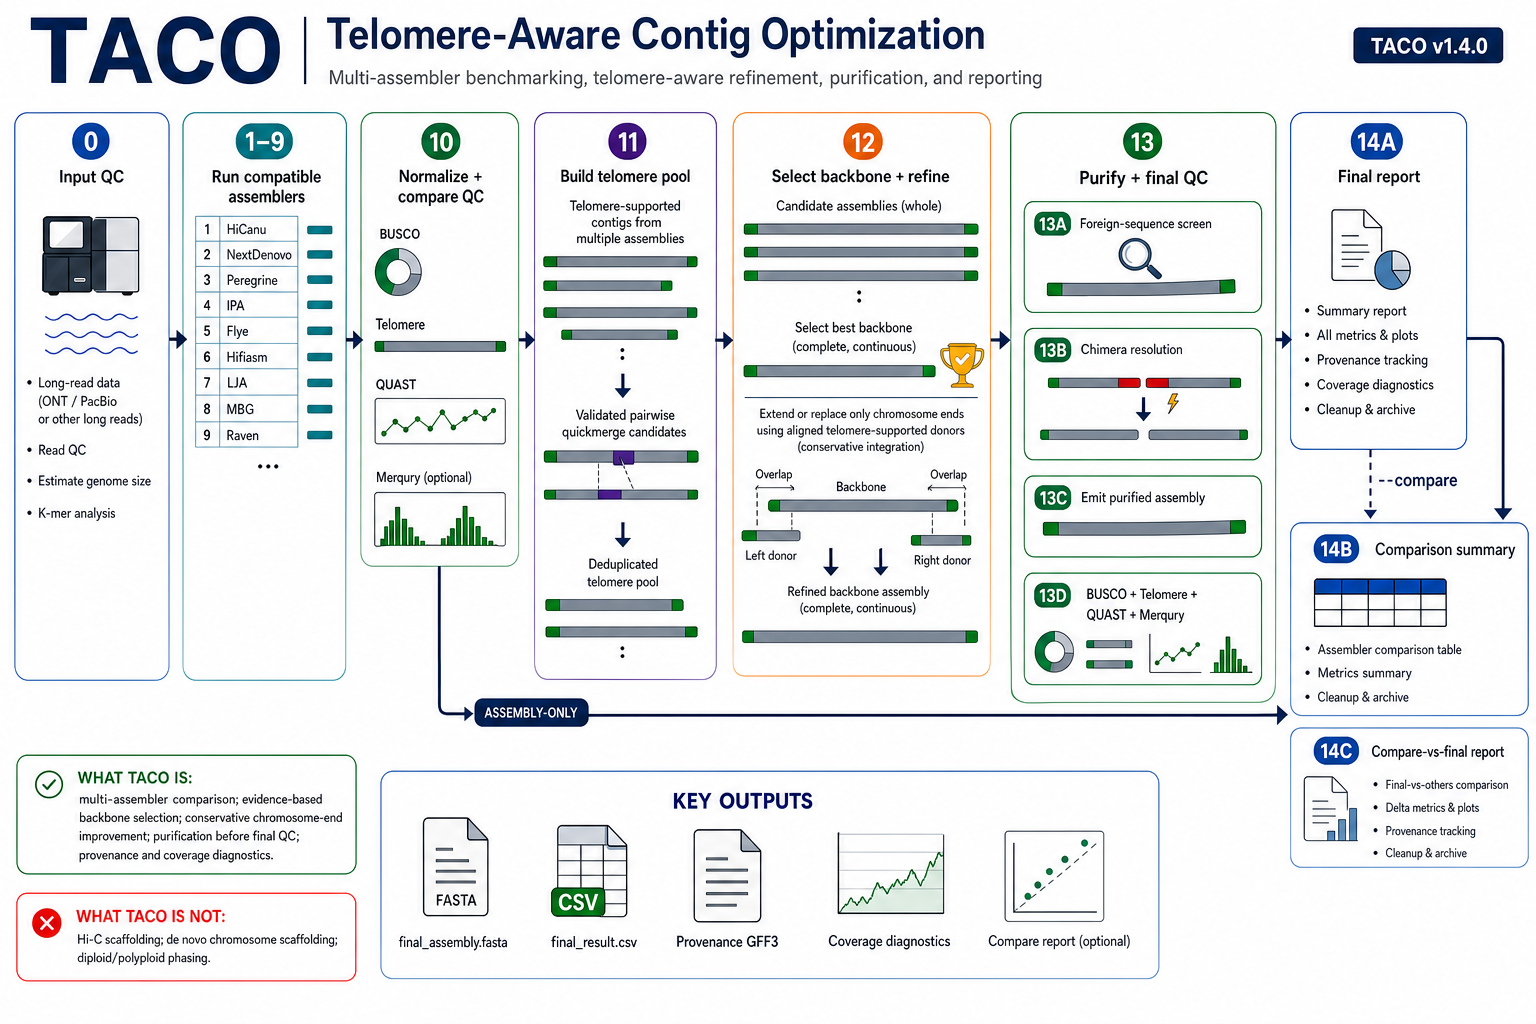
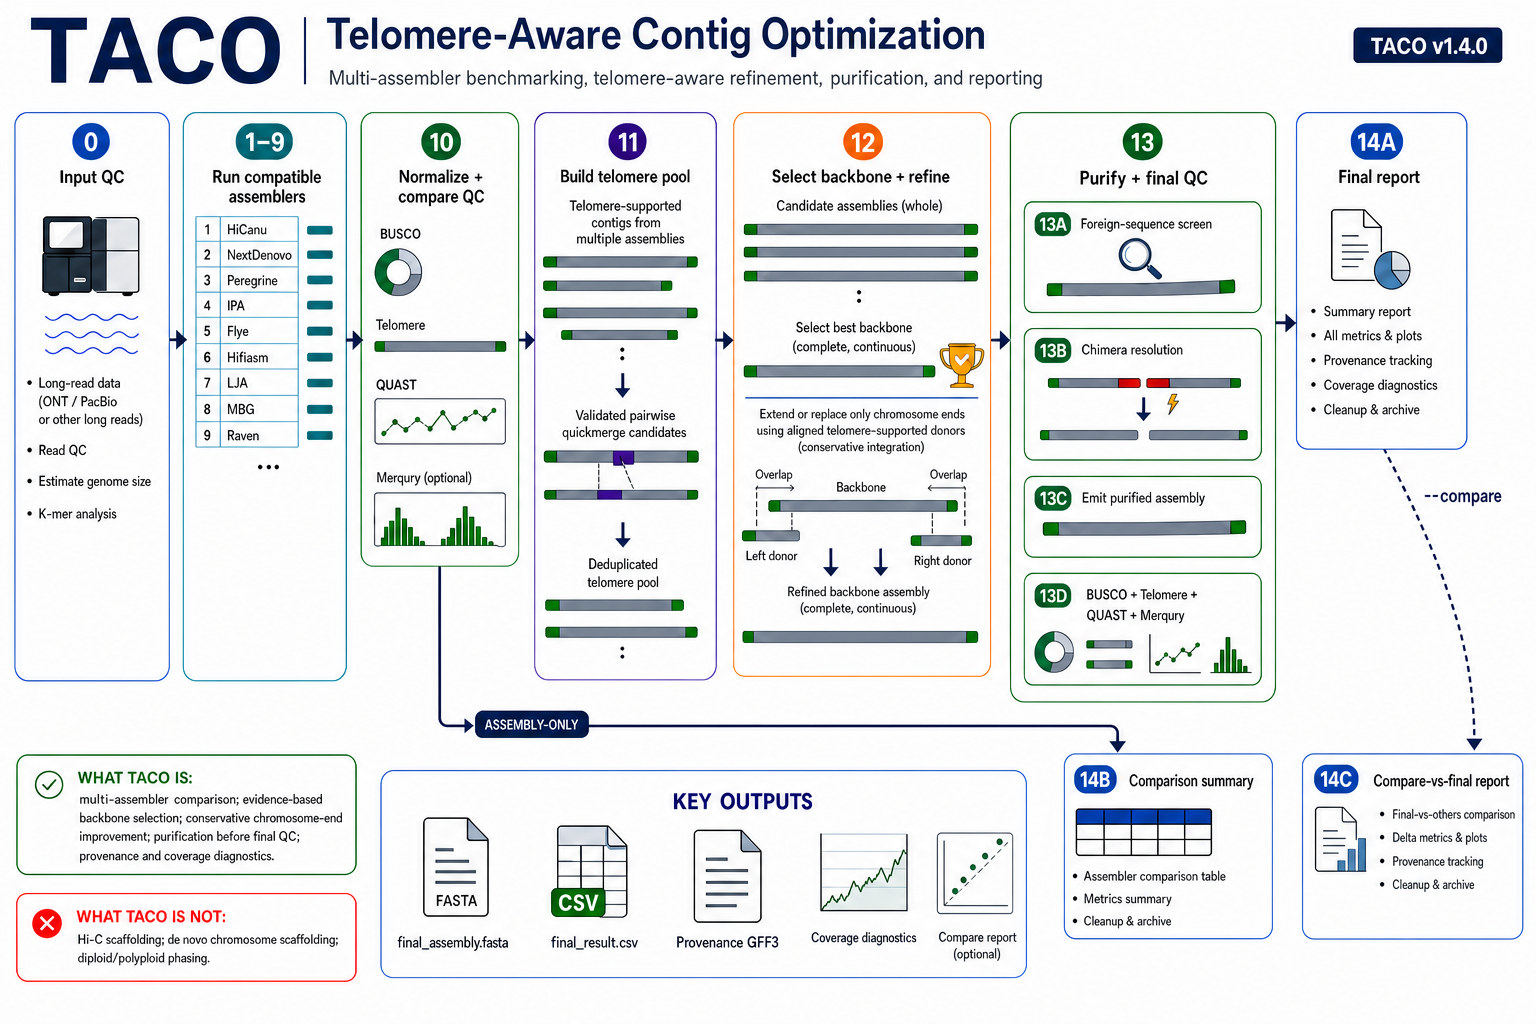
1.4.1

diff --git a/taco/steps.py b/taco/steps.py
@@ -5296,6 +5296,99 @@ def _collision_free_name(name, existing, exclude=None):
     return f"{name}__dup{i}"
 
 
+def _audit_tier_assignment(runner, backbone_fa, bb_t2t_ids, bb_telo_ids):
+    """Record — without acting on it — where Tier 1 disagrees with the other assemblies.
+
+    Step 12 assigns Tier 1 immutability from telomere status alone.  A contig
+    that fuses two chromosomes at ends which are themselves incomplete carries
+    genuine telomeric repeat at both outer ends, so it classifies strict-T2T and
+    becomes immutable, and the telomere pool is barred from competing for that
+    chromosome precisely because the contig fakes the property that earns
+    protection.  Sub-step 13B resolves such a contig later, but by then
+    refinement has finished and no replacement can be offered for the pieces.
+
+    This function deliberately changes nothing.  It reuses the cross-assembler
+    machinery already present in :func:`_purify_all_contig_concordance` — which
+    excludes the backbone's own assembly from the voter set and handles a
+    missing minimap2 or fewer than two voters internally — and writes
+    ``tier_assignment.tsv`` recording both the tier TACO used and the tier the
+    cross-assembler verdict implies.  Where those two columns differ, the run
+    directory now says so.
+
+    Acting on the disagreement is deferred: demoting a contig to Tier 2 makes it
+    eligible for donor paths whose acceptance thresholds have not been evaluated
+    for a multi-chromosome target, so demotion is not obviously safer than the
+    current behavior and needs a genome to test against.
+    """
+    if getattr(runner, "concordance_mode", "exclude") == "off":
+        runner.log_info("Tier audit: --concordance-mode off; skipping")
+        return {}
+    if not backbone_fa or not os.path.isfile(backbone_fa) or \
+            os.path.getsize(backbone_fa) == 0:
+        return {}
+
+    try:
+        conc = _purify_all_contig_concordance(
+            runner, backbone_fa, label="Tier audit (12D)",
+            workdir="assemblies/tier_audit_concordance")
+    except Exception as exc:                                  # never fatal
+        runner.log_warn(f"Tier audit: cross-check failed ({exc}); "
+                        "tier_assignment.tsv not written")
+        return {}
+    if not conc:
+        runner.log_info("Tier audit: no cross-assembler verdicts available")
+        return {}
+
+    rows = []
+    contested = []
+    for name, seq in _read_fasta_records(backbone_fa):
+        if name in bb_t2t_ids:
+            raw_class, tier = "strict_t2t", 1
+        elif name in bb_telo_ids:
+            raw_class, tier = "telomere_bearing", 2
+        else:
+            raw_class, tier = "none", 2
+        info = conc.get(name) or {}
+        v = info.get("verdict") or {}
+        vd = v.get("verdict", "not_tested")
+        would_be = 2 if (tier == 1 and vd == "mis_join_candidate") else tier
+        if would_be != tier:
+            contested.append((name, len(seq), v))
+        rows.append([name, len(seq), raw_class, vd,
+                     v.get("n_split", ""), v.get("n_intact", ""),
+                     v.get("n_informative", ""), tier, would_be,
+                     v.get("reason", "not tested")])
+
+    out = "assemblies/tier_assignment.tsv"
+    with open(out, "w", newline="") as f:
+        w = csv.writer(f, delimiter="\t")
+        w.writerow(["contig", "length", "raw_telomere_class",
+                    "concordance_verdict", "n_split", "n_intact",
+                    "n_informative", "tier", "would_be_tier", "reason"])
+        w.writerows(rows)
+    if os.path.isdir("final_results"):
+        try:
+            shutil.copy(out, os.path.join("final_results",
+                                          "tier_assignment.tsv"))
+        except OSError:
+            pass
+
+    for name, length, v in contested:
+        runner.log_warn(
+            f"Tier 1 contig {name} ({length:,} bp) is contradicted by "
+            f"{v.get('n_split')} of {v.get('n_informative')} independent "
+            f"assemblies. TACO will resolve this at sub-step 13B rather than "
+            f"offering a replacement here; see {out}")
+    if contested:
+        runner.log_warn(f"Tier audit: {len(contested)} of {len(bb_t2t_ids)} "
+                        f"Tier 1 contigs are contested. No behavior change in "
+                        f"this release.")
+    else:
+        runner.log(f"Tier audit: all {len(bb_t2t_ids)} Tier 1 contigs are "
+                   f"corroborated by the other assemblies")
+    return conc
+
+
 def step_12_refine(runner):
     """Step 12 - Backbone-first telomere-aware refinement with BUSCO trial validation.
 
@@ -5532,6 +5625,10 @@ def step_12_refine(runner):
     runner.log_info(f"Tier 1 (backbone T2T, immutable): {len(bb_t2t_ids)} contigs"
                     f"{' (--allow-t2t-replace ON)' if allow_t2t_replace else ''}")
     runner.log_info(f"Tier 2 (backbone non-T2T, upgradeable): {bb_tier2_count} contigs")
+
+    # v1.4.1: record where the cross-assembler verdict contradicts Tier 1.
+    # Audit only — nothing below reads this, and no tier is changed.
+    _audit_tier_assignment(runner, backbone_fa, bb_t2t_ids, bb_telo_ids)
 
     # Copy pool T2T for reference (chimera-checked version)
     if protected_fasta and os.path.isfile(protected_fasta) and \
@@ -9068,7 +9165,8 @@ def _purify_contig_records(runner, fa, tiers):
     return recs
 
 
-def _purify_all_contig_concordance(runner, fa):
+def _purify_all_contig_concordance(runner, fa, label="Purify 13B",
+                                   workdir="assemblies/purify_concordance"):
     """Cross-check *every* large contig of the delivered assembly against the others.
 
     v1.3.7 only tested contigs already classified strict-T2T, for the narrow
@@ -9084,8 +9182,8 @@ def _purify_all_contig_concordance(runner, fa):
     Returns ``{contig: {"verdict": ..., "intervals": {voter: {target: [...]}}}}``.
     """
     if not shutil.which("minimap2"):
-        runner.log_warn("Purify: minimap2 not found; skipping the mis-join "
-                        "cross-check")
+        runner.log_warn(f"{label}: minimap2 not found; skipping the "
+                        f"cross-assembler check")
         return {}
 
     backbone = _purify_selected_assembler()
@@ -9105,8 +9203,8 @@ def _purify_all_contig_concordance(runner, fa):
             continue
         voters.append(name)
     if len(voters) < 2:
-        runner.log_info("Purify: fewer than two independent assemblies "
-                        "available; skipping the mis-join cross-check")
+        runner.log_info(f"{label}: fewer than two independent assemblies "
+                        f"available; skipping the cross-assembler check")
         return {}
 
     names = [n for n, s in _read_fasta_records(fa)
@@ -9114,15 +9212,15 @@ def _purify_all_contig_concordance(runner, fa):
     if not names:
         return {}
 
-    work = "assemblies/purify_concordance"
+    work = workdir
     os.makedirs(work, exist_ok=True)
     qfa = os.path.join(work, "delivered.fa")
     if _subset_fasta(fa, names, qfa) == 0:
         return {}
 
-    runner.log(f"Purify 13B - cross-checking {len(names)} contig(s) of the "
-               f"delivered assembly against {len(voters)} independent "
-               f"assemblies ({', '.join(voters)})")
+    runner.log(f"{label} - cross-checking {len(names)} contig(s) against "
+               f"{len(voters)} independent assemblies "
+               f"({', '.join(voters)})")
 
     votes = {c: {} for c in names}
     intervals = {c: {} for c in names}
@@ -9132,7 +9230,7 @@ def _purify_all_contig_concordance(runner, fa):
                f"assemblies/{v}.result.fasta {shlex.quote(qfa)} "
                f"> {shlex.quote(paf)}")
         res = _run_shell_capture(
-            runner, cmd, f"Purify: delivered contigs vs {v}",
+            runner, cmd, f"{label}: contigs vs {v}",
             stderr_log=os.path.join(work, f"delivered__vs__{v}.stderr.log"))
         if res.returncode != 0:
             continue

diff --git a/taco/cli.py b/taco/cli.py
@@ -59,7 +59,7 @@ TAXON_BUSCO_LINEAGE = {
 
 def parse_args():
     """Parse command-line arguments for TACO."""
-    parser = argparse.ArgumentParser(prog='TACO', description='TACO v1.4.0 - Telomere-Aware Contig Optimization')
+    parser = argparse.ArgumentParser(prog='TACO', description='TACO v1.4.1 - Telomere-Aware Contig Optimization')
     parser.add_argument('-g', '--genomesize', type=str, required=True, help='Estimated genome size')
     parser.add_argument('-t', '--threads', type=int, required=True, help='Number of threads')
     parser.add_argument('--fastq', type=str, required=True, help='Path to input FASTQ')
@@ -172,7 +172,7 @@ def parse_args():
                         help='Allow rescue donors to replace immutable Tier 1 (protected T2T) contigs. '
                              'Disabled by default for safety. Use only if you have strong reason to '
                              'believe a donor is a better T2T contig than the existing one.')
-    parser.add_argument('--version', action='version', version='TACO v1.4.0')
+    parser.add_argument('--version', action='version', version='TACO v1.4.1')
     
     args = parser.parse_args()
 
@@ -226,7 +226,7 @@ def parse_args():
     for s in args.steps:
         if s < 0 or s > 14:
             parser.error(
-                f"Invalid step: {s}. TACO v1.4.0 uses steps 0-14. "
+                f"Invalid step: {s}. TACO v1.4.1 uses steps 0-14. "
                 f"Full mode: 0-14. Assembly-only: 0-10, 14. "
                 f"Resume from refinement: -s 12-14.")
     return args

diff --git a/setup.py b/setup.py
@@ -3,7 +3,7 @@ from setuptools import setup, find_packages
 
 setup(
     name="taco-genome",
-    version="1.4.0",
+    version="1.4.1",
     description="Telomere-Aware Contig Optimization pipeline",
     long_description=open("README.md", encoding="utf-8").read(),
     long_description_content_type="text/markdown",

diff --git a/taco/__init__.py b/taco/__init__.py
@@ -5,5 +5,5 @@ A telomere-aware all-in-one multi-assembler comparison and refinement
 pipeline for genome assembly benchmarking, decision-making, and
 chromosome-end improvement.
 """
-__version__ = "1.4.0"
+__version__ = "1.4.1"
 __author__ = "Yukun Sun"

diff --git a/taco/pipeline.py b/taco/pipeline.py
@@ -42,7 +42,7 @@ class TeeWriter:
 class PipelineRunner:
     """Main pipeline execution engine for TACO."""
 
-    PIPELINE_NAME = "TACO-1.4.0"
+    PIPELINE_NAME = "TACO-1.4.1"
 
     def __init__(self, args):
         # Core parameters

diff --git a/docs/CHANGELOG.md b/docs/CHANGELOG.md
@@ -5,6 +5,43 @@ Versions follow [Semantic Versioning](https://semver.org/).
 
 ---
 
+## [1.4.1] — 2026-08-03
+
+### Audit only: the Tier 1 / cross-assembler disagreement is now recorded
+
+Step 12 assigns Tier 1 immutability from telomere status alone and never
+consults the cross-assembler verdict. A contig fusing two chromosomes at ends
+that are themselves incomplete carries genuine telomeres at both outer ends, so
+it classifies strict-T2T, becomes immutable, and the telomere pool is barred
+from competing for that chromosome — precisely because the contig fakes the
+property that earns protection. 13B resolves it later, but refinement has
+finished by then and no replacement can be offered for the pieces.
+
+This release makes that visible and changes nothing else.
+
+- New `assemblies/tier_assignment.tsv` (copied to `final_results/` when present)
+  with `tier` — what TACO used — beside `would_be_tier` — what the verdict
+  implies — plus the vote counts and the reason. Where the two columns differ,
+  the run directory now says so.
+- A warning naming each contested Tier 1 contig and stating that resolution is
+  deferred to 13B.
+- Reuses `_purify_all_contig_concordance`, which already excludes the backbone's
+  own assembly from the voter set and already handles a missing minimap2 or
+  fewer than two voters. Cost is one call, roughly 25 s on a 45 Mb fungal
+  genome; skipped entirely under `--concordance-mode off`.
+
+**No output changes.** No tier is modified, no path is altered, and the
+delivered assembly is byte-identical to v1.4.0 on the same inputs.
+
+Acting on the disagreement is deferred deliberately. Demoting a contested contig
+to Tier 2 makes it eligible for donor paths — 12E2 single-telomere rescue at
+`RESCUE_MIN_COV_BB` 0.60, and the 12F2 partial path at `min_tcov` 0.15 — whose
+thresholds have not been evaluated against a multi-chromosome target. Demotion
+is therefore not obviously safer than current behavior, and needs a genome where
+a donor can actually win before it is worth the risk.
+
+---
+
 ## [1.4.0] — 2026-07-31
 
 A minor-version bump rather than a patch, because the default behaviour changes in
